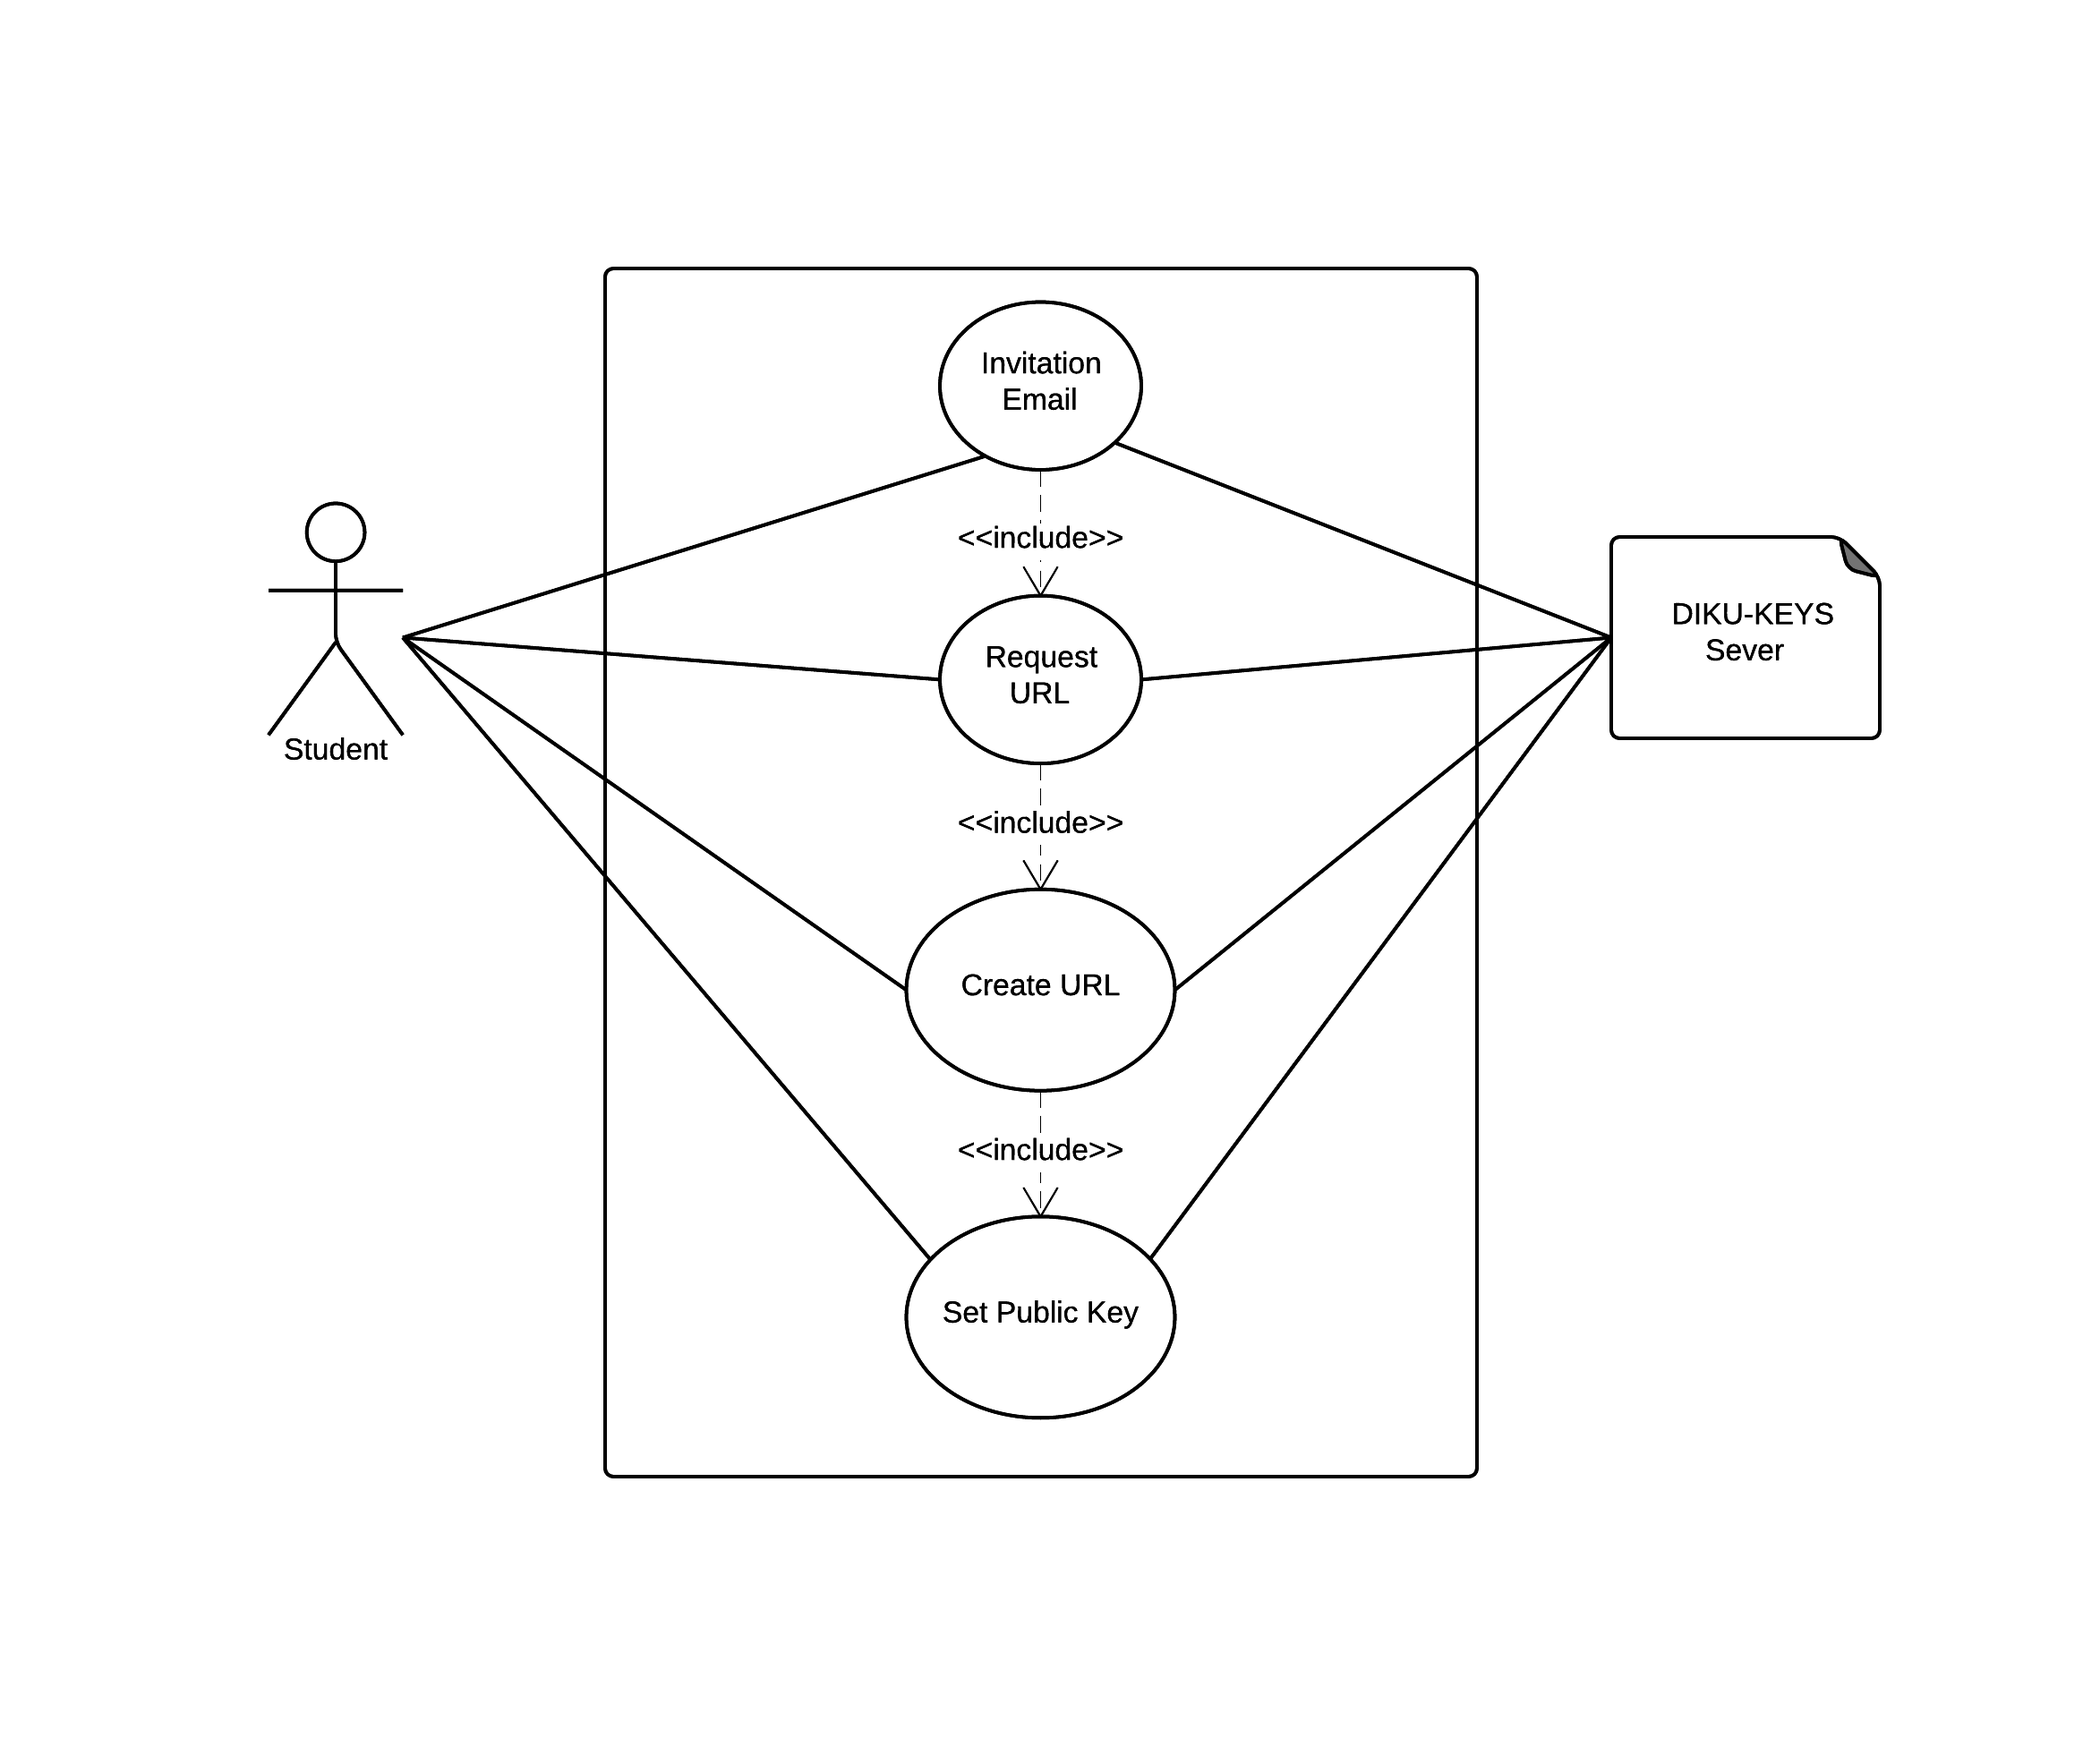
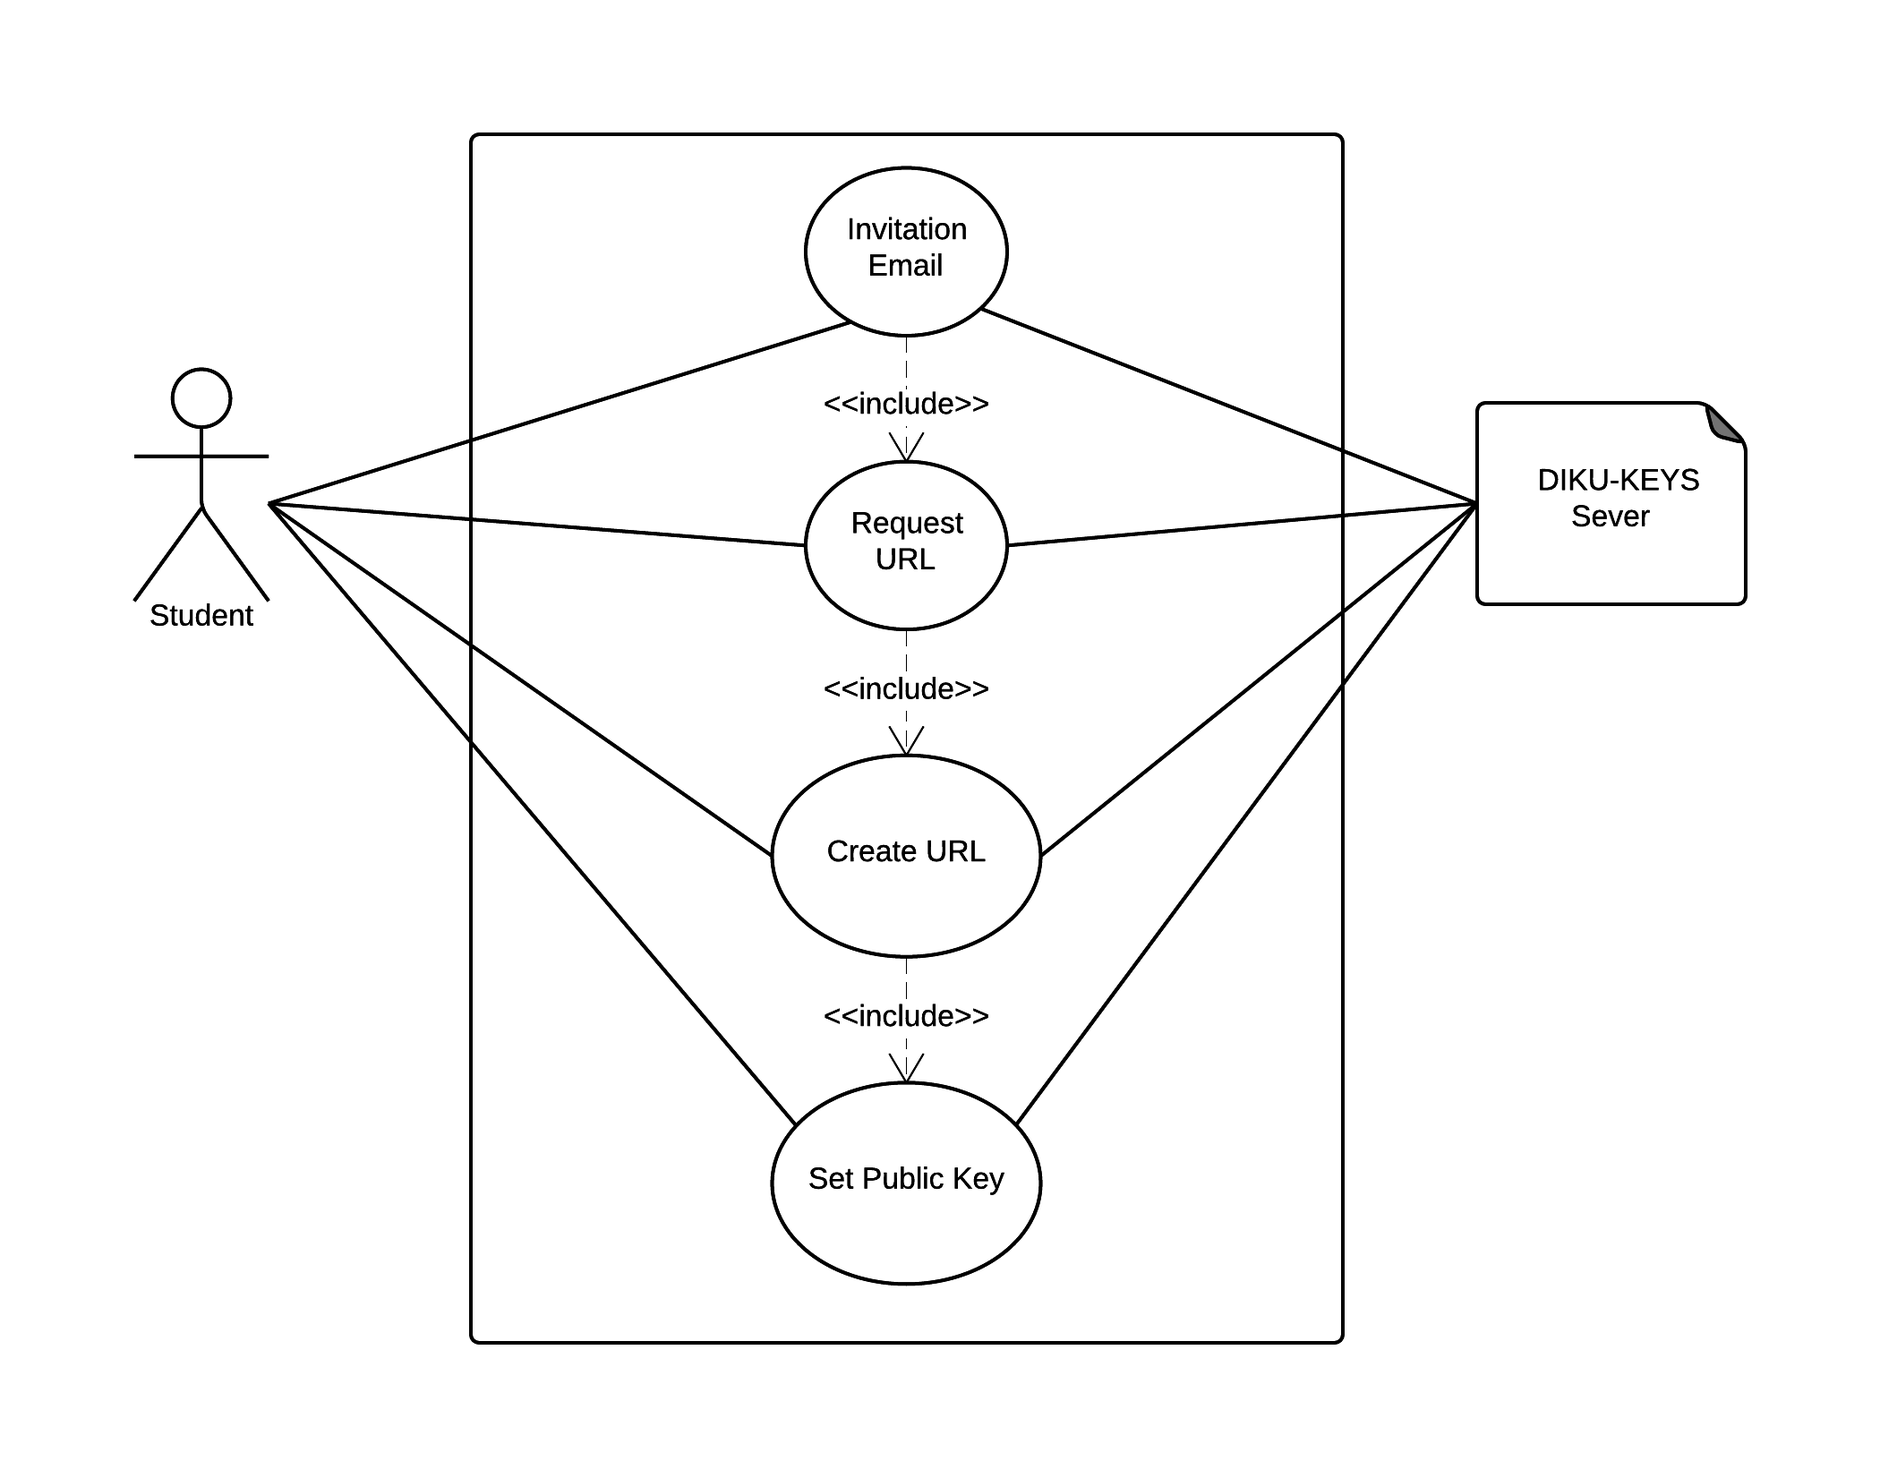
Changes to pictures, sizing

diff --git a/docs/delrapport_2/aflevering2.tex b/docs/delrapport_2/aflevering2.tex
@@ -74,7 +74,7 @@
 
 \title{
 \vspace{3cm}
-\Large{First Partial Assignment - ProjDat}
+\Large{Second Partial Assignment - ProjDat}
 }
 
 \begin{document}
@@ -108,12 +108,12 @@
 \section{Abstract}
 
 \section{Purpose and Framework for the project}
-This definition is based on the FACTOR criteria which serves the purpose of providing the structure for a systems definition. 
+This definition is based on the FACTOR criteria which serves the purpose of providing the structure for a systems definition.
 \begin{itemize}
-\item \textbf{F}unctionality: The purpose of the system is to allow specific students and employees at the University of Copenhagen to map their username to a public PGP key and store these records in a database maintained by the customer. The system must also allow the same users to replace their public key in case they lose the corresponding private key. The mappings should be readable by specific users with privileged access through some login mechanism. 
-\item \textbf{A}pplication domain: The system will be used by students to upload their OpenPGP key and by teaching assistants to match hand-ins that have been signed by a student's OpenPGP key. It is used when TAs receive hand-ins by the students and before the grading commences. 
+\item \textbf{F}unctionality: The purpose of the system is to allow specific students and employees at the University of Copenhagen to map their username to a public PGP key and store these records in a database maintained by the customer. The system must also allow the same users to replace their public key in case they lose the corresponding private key. The mappings should be readable by specific users with privileged access through some login mechanism.
+\item \textbf{A}pplication domain: The system will be used by students to upload their OpenPGP key and by teaching assistants to match hand-ins that have been signed by a student's OpenPGP key. It is used when TAs receive hand-ins by the students and before the grading commences.
 \item \textbf{C}onditions: Most students are not likely to have experience with OpenPGP so it should be as simple as possible to upload a key and the system must be forgiving, meaning that if a student loses his private PGP key, they must be able to upload a new public key. Instructions to guide the students through the various tasks of creating and uploadning a key must be available. The system must allow other software to access the mappings.
-\item \textbf{T}echnology: Servers with a UNIX-like OS will run the system, and modern browsers will be used for the front-end. The system will be written in golang to the widest extent possible but will also utilize SQL, HTML, CSS as different languages, and also use existing software in the form of nginx for the webserver. 
+\item \textbf{T}echnology: Servers with a UNIX-like OS will run the system, and modern browsers will be used for the front-end. The system will be written in golang to the widest extent possible but will also utilize SQL, HTML, CSS as different languages, and also use existing software in the form of nginx for the webserver.
 \item \textbf{O}bjects: The primary objects in the problem domain are students, TAs, and their uniquely identifying keys, in this case OpenPGP-keys.
 \item \textbf{R}esponsibility: The system's main responsiblity is to maintain a table with a mapping from KU Usernames to corresponding OpenPGP public keys. It must also allow other privileged software to read from this table.
 \end{itemize}
@@ -147,6 +147,12 @@ Non-functional requirements are system requirements which do not describe the ac
 \end{itemize}
 
 \subsection{Use case model}
+\begin{figure}[h!]
+\centering
+\includegraphics[width=0.7\textwidth]{pictures/use_case_pksu_del2_b_high}
+\caption{High level use case diagram.}
+\label{fig:use_case_diagram_high_level}
+\end{figure}
 
 \subsection{Specific use case models}
 
@@ -155,10 +161,10 @@ Non-functional requirements are system requirements which do not describe the ac
     \toprule
     \textit{Use case name} & Upload key \\
     \midrule
-    \textit{Participating} & Students \\ 
+    \textit{Participating} & Students \\
     \textit{actors} & \\
     \midrule
-    \textit{Flow of events} & 
+    \textit{Flow of events} &
     \vspace{-6.7mm} \begin{enumerate}
         \item Student follows link to dikukeys in invitation email OR student goes to dikukeys directly.
         \item Student enter their KU Username into a form.
@@ -181,10 +187,10 @@ Non-functional requirements are system requirements which do not describe the ac
     \toprule
     \textit{Use case name} & Replace key \\
     \midrule
-    \textit{Participating} & Students \\ 
+    \textit{Participating} & Students \\
     \textit{actors} & \\
     \midrule
-    \textit{Flow of events} & 
+    \textit{Flow of events} &
     \vspace{-6.7mm} \begin{enumerate}
         \item Student goes to dikukeys.
         \item Student enter their KU Username into a form.
@@ -206,10 +212,10 @@ Non-functional requirements are system requirements which do not describe the ac
     \toprule
     \textit{Use case name} & Invite group of students\\
     \midrule
-    \textit{Participating} & Course director \\ 
+    \textit{Participating} & Course director \\
     \textit{actors} & System administrator \\
     \midrule
-    \textit{Flow of events} & 
+    \textit{Flow of events} &
     \vspace{-6.7mm} \begin{enumerate}
         \item Course director sends list of students and information about course to system administrator.
         \item System administator submits list of students course-information to the server via ssh.
